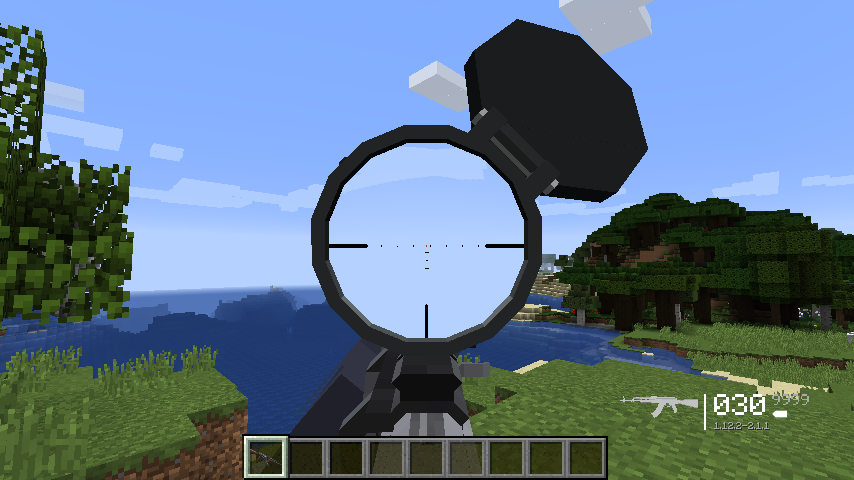
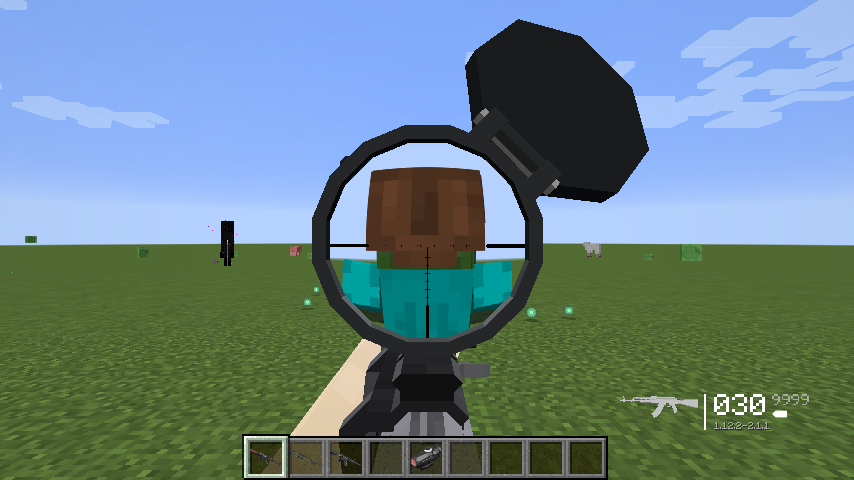
Aiming screenshot with a real target: the autotest now rebinds the aim key to a key no real input event can generate (the dev window sits on a live desktop, and real right-button clicks kept toggling or cancelling the aim - the test config even runs toggle-aim), waits for the aim to fully engage bef

diff --git a/src/main/java/com/tacz/guns/legacy/debug/DevClient.java b/src/main/java/com/tacz/guns/legacy/debug/DevClient.java
@@ -64,6 +64,8 @@ public final class DevClient {
     private static int ticks;
     private static int warmupTicks;
     private static boolean shootingShotPending;
+    /** First tick of the shooting sequence; -1 until the aiming screenshot is taken. */
+    private static int aimBase = -1;
     private static net.minecraft.entity.EntityLiving target;
 
     private DevClient() {
@@ -245,18 +247,44 @@ public final class DevClient {
                 if (++ticks == 40) {
                     screenshot(mc, "first_person");
                     if (DevTools.PACK_DIR == null) {
+                        // The dev window sits on a live desktop, so real right-button clicks keep toggling or
+                        // cancelling the aim (the test config may even run toggle-aim), and the aiming screenshot
+                        // would randomly come out from the hip. Rebind the aim key to a key no real input event
+                        // can generate for the rest of the test, and register it there so the synthetic key state
+                        // below actually reaches it.
+                        try {
+                            java.lang.reflect.Field keyCode = net.minecraft.client.settings.KeyBinding.class.getDeclaredField("keyCode");
+                            keyCode.setAccessible(true);
+                            keyCode.setInt(com.tacz.guns.client.input.AimKey.AIM_KEY, 255);
+                            java.lang.reflect.Field hash = net.minecraft.client.settings.KeyBinding.class.getDeclaredField("HASH");
+                            hash.setAccessible(true);
+                            ((net.minecraftforge.client.settings.KeyBindingMap) hash.get(null)).addKey(255, com.tacz.guns.client.input.AimKey.AIM_KEY);
+                        } catch (ReflectiveOperationException e) {
+                            GunMod.LOGGER.warn("[dev] failed to rebind the aim key", e);
+                        }
                         // hold the aim key: with hold-to-aim (the default) a released key cancels aiming next tick
                         net.minecraft.client.settings.KeyBinding.setKeyBindState(com.tacz.guns.client.input.AimKey.AIM_KEY.getKeyCode(), true);
                         IClientPlayerGunOperator.fromLocalPlayer(mc.player).aim(true);
                     }
-                } else if (ticks == 70) {
-                    if (DevTools.PACK_DIR == null) {
+                } else if (ticks >= 70 && aimBase < 0) {
+                    if (DevTools.PACK_DIR != null) {
+                        // debug pack mode: no aim/shoot sequence, the checkpoints below stay on the old fixed ticks
+                        aimBase = 70;
+                    } else {
                         IClientPlayerGunOperator operator = IClientPlayerGunOperator.fromLocalPlayer(mc.player);
-                        GunMod.LOGGER.info("[dev] aim state: isAim={} progress={}", operator.isAim(), operator.getClientAimingProgress(0));
-                        screenshot(mc, "aiming");
-                        GunMod.LOGGER.info("[dev] target health before: {}", target == null ? null : target.getHealth());
+                        // Wait until the aim actually engaged and the transition finished before the screenshot: a
+                        // stray real mouse event over the dev window can cancel hold-to-aim between the re-assert
+                        // below and a fixed tick, which silently made the aiming screenshot come out from the hip.
+                        // The deadline only guards against a broken aim, it should not normally be reached.
+                        if ((operator.isAim() && operator.getClientAimingProgress(0) >= 1f) || ticks > 110) {
+                            GunMod.LOGGER.info("[dev] aim state: isAim={} progress={}", operator.isAim(), operator.getClientAimingProgress(0));
+                            screenshot(mc, "aiming");
+                            GunMod.LOGGER.info("[dev] target health before: {}", target == null ? null : target.getHealth());
+                            aimBase = ticks;
+                        }
                     }
-                } else if (DevTools.PACK_DIR == null && ticks > 70 && ticks <= 85 && ticks % 5 == 1) {
+                } else if (DevTools.PACK_DIR == null && aimBase >= 0 && ticks > aimBase && ticks <= aimBase + 14
+                        && (ticks - aimBase) % 5 == 1) {
                     GunMod.LOGGER.info("[dev] shoot: {}", IClientPlayerGunOperator.fromLocalPlayer(mc.player).shoot());
                     IntegratedServer srv = mc.getIntegratedServer();
                     if (srv != null) {
@@ -269,32 +297,34 @@ public final class DevClient {
                                     target == null ? null : target.getPositionVector(), mc.player.getPositionVector(), mc.player.getLookVec());
                         });
                     }
-                    if (ticks == 81) {
+                    if (ticks == aimBase + 11) {
                         // the frame rendered after this tick shows the muzzle flash (50 ms)
                         shootingShotPending = true;
                     }
-                } else if (ticks == 89) {
+                } else if (aimBase >= 0 && ticks == aimBase + 19) {
                     if (DevTools.PACK_DIR == null) {
                         GunMod.LOGGER.info("[dev] target health after: {} dead={}", target == null ? null : target.getHealth(), target != null && target.isDead);
                         net.minecraft.client.settings.KeyBinding.setKeyBindState(com.tacz.guns.client.input.AimKey.AIM_KEY.getKeyCode(), false);
                         IClientPlayerGunOperator.fromLocalPlayer(mc.player).aim(false);
                     }
-                } else if (ticks == 100 && DevTools.PACK_DIR == null) {
-                    IClientPlayerGunOperator.fromLocalPlayer(mc.player).reload();
-                    GunMod.LOGGER.info("[dev] reload");
-                } else if (ticks == 120 && DevTools.PACK_DIR == null) {
+                } else if (aimBase >= 0 && ticks == aimBase + 30) {
+                    if (DevTools.PACK_DIR == null) {
+                        IClientPlayerGunOperator.fromLocalPlayer(mc.player).reload();
+                        GunMod.LOGGER.info("[dev] reload");
+                    }
+                } else if (aimBase >= 0 && ticks == aimBase + 50) {
                     screenshot(mc, "reloading");
-                } else if (ticks == 130) {
+                } else if (aimBase >= 0 && ticks == aimBase + 60) {
                     mc.gameSettings.thirdPersonView = 2;
-                } else if (ticks == 150) {
+                } else if (aimBase >= 0 && ticks == aimBase + 80) {
                     screenshot(mc, "third_person_front");
                     mc.gameSettings.thirdPersonView = 0;
-                } else if (ticks == 160 && System.getenv("TACZ_AUTOTEST_STAY") == null) {
+                } else if (aimBase >= 0 && ticks == aimBase + 90 && System.getenv("TACZ_AUTOTEST_STAY") == null) {
                     mc.shutdown();
                 }
                 // Keep the aim asserted every tick while the sequence wants aiming: a stray real mouse event
                 // (the window sits on a desktop) would otherwise cancel hold-to-aim mid-sequence
-                if (DevTools.PACK_DIR == null && ticks > 40 && ticks < 89) {
+                if (DevTools.PACK_DIR == null && ticks > 40 && (aimBase < 0 || ticks < aimBase + 19)) {
                     net.minecraft.client.settings.KeyBinding.setKeyBindState(com.tacz.guns.client.input.AimKey.AIM_KEY.getKeyCode(), true);
                     IClientPlayerGunOperator operator = IClientPlayerGunOperator.fromLocalPlayer(mc.player);
                     if (!operator.isAim()) {

diff --git a/README.md b/README.md
@@ -18,8 +18,8 @@ The original zooms the whole screen when you aim through a scope. Here a scope m
 
 <table>
   <tr>
-    <td width="50%"><img src="docs/img/scope_hip.png" alt="Scoped rifle from the hip: the lens mirrors the world behind the player"></td>
-    <td width="50%"><img src="docs/img/scope_aiming.png" alt="Aiming through the scope: the lens shows a magnified view with the reticle"></td>
+    <td width="50%"><img src="https://raw.githubusercontent.com/Vendetta1871/Timeless-and-Classics-Zero-Legacy/main/docs/img/scope_hip.png" alt="Scoped rifle from the hip: the lens mirrors the world behind the player"></td>
+    <td width="50%"><img src="https://raw.githubusercontent.com/Vendetta1871/Timeless-and-Classics-Zero-Legacy/main/docs/img/scope_aiming.png" alt="Aiming through the scope: the lens shows a magnified view with the reticle"></td>
   </tr>
   <tr>
     <td><em>from the hip: the lens mirrors what is behind the player</em></td>
@@ -43,7 +43,7 @@ One switch back, applied without a restart. Open **Mods → Config** (or press *
 | `ScopeZoomMode` | `PICTURE_IN_PICTURE` | `FULL_SCREEN_ZOOM` - the whole screen zooms while aiming (also the cheapest option: no second world pass) |
 | `ScopeMirror` | `true` | `false` - the lens is see-through from the hip again (and skips the reflection's world pass) |
 
-<img src="docs/img/config_performance.png" alt="The performance section of the in-game config screen" width="640">
+<img src="https://raw.githubusercontent.com/Vendetta1871/Timeless-and-Classics-Zero-Legacy/main/docs/img/config_performance.png" alt="The performance section of the in-game config screen" width="640">
 
 The same keys live in `config/tacz-client.cfg` under `[performance]`. Other scope knobs in the same section:
 `ScopeViewResolution` (resolution of the lens image, lower is faster), `ScopeFisheye` (distortion strength, 0 turns
